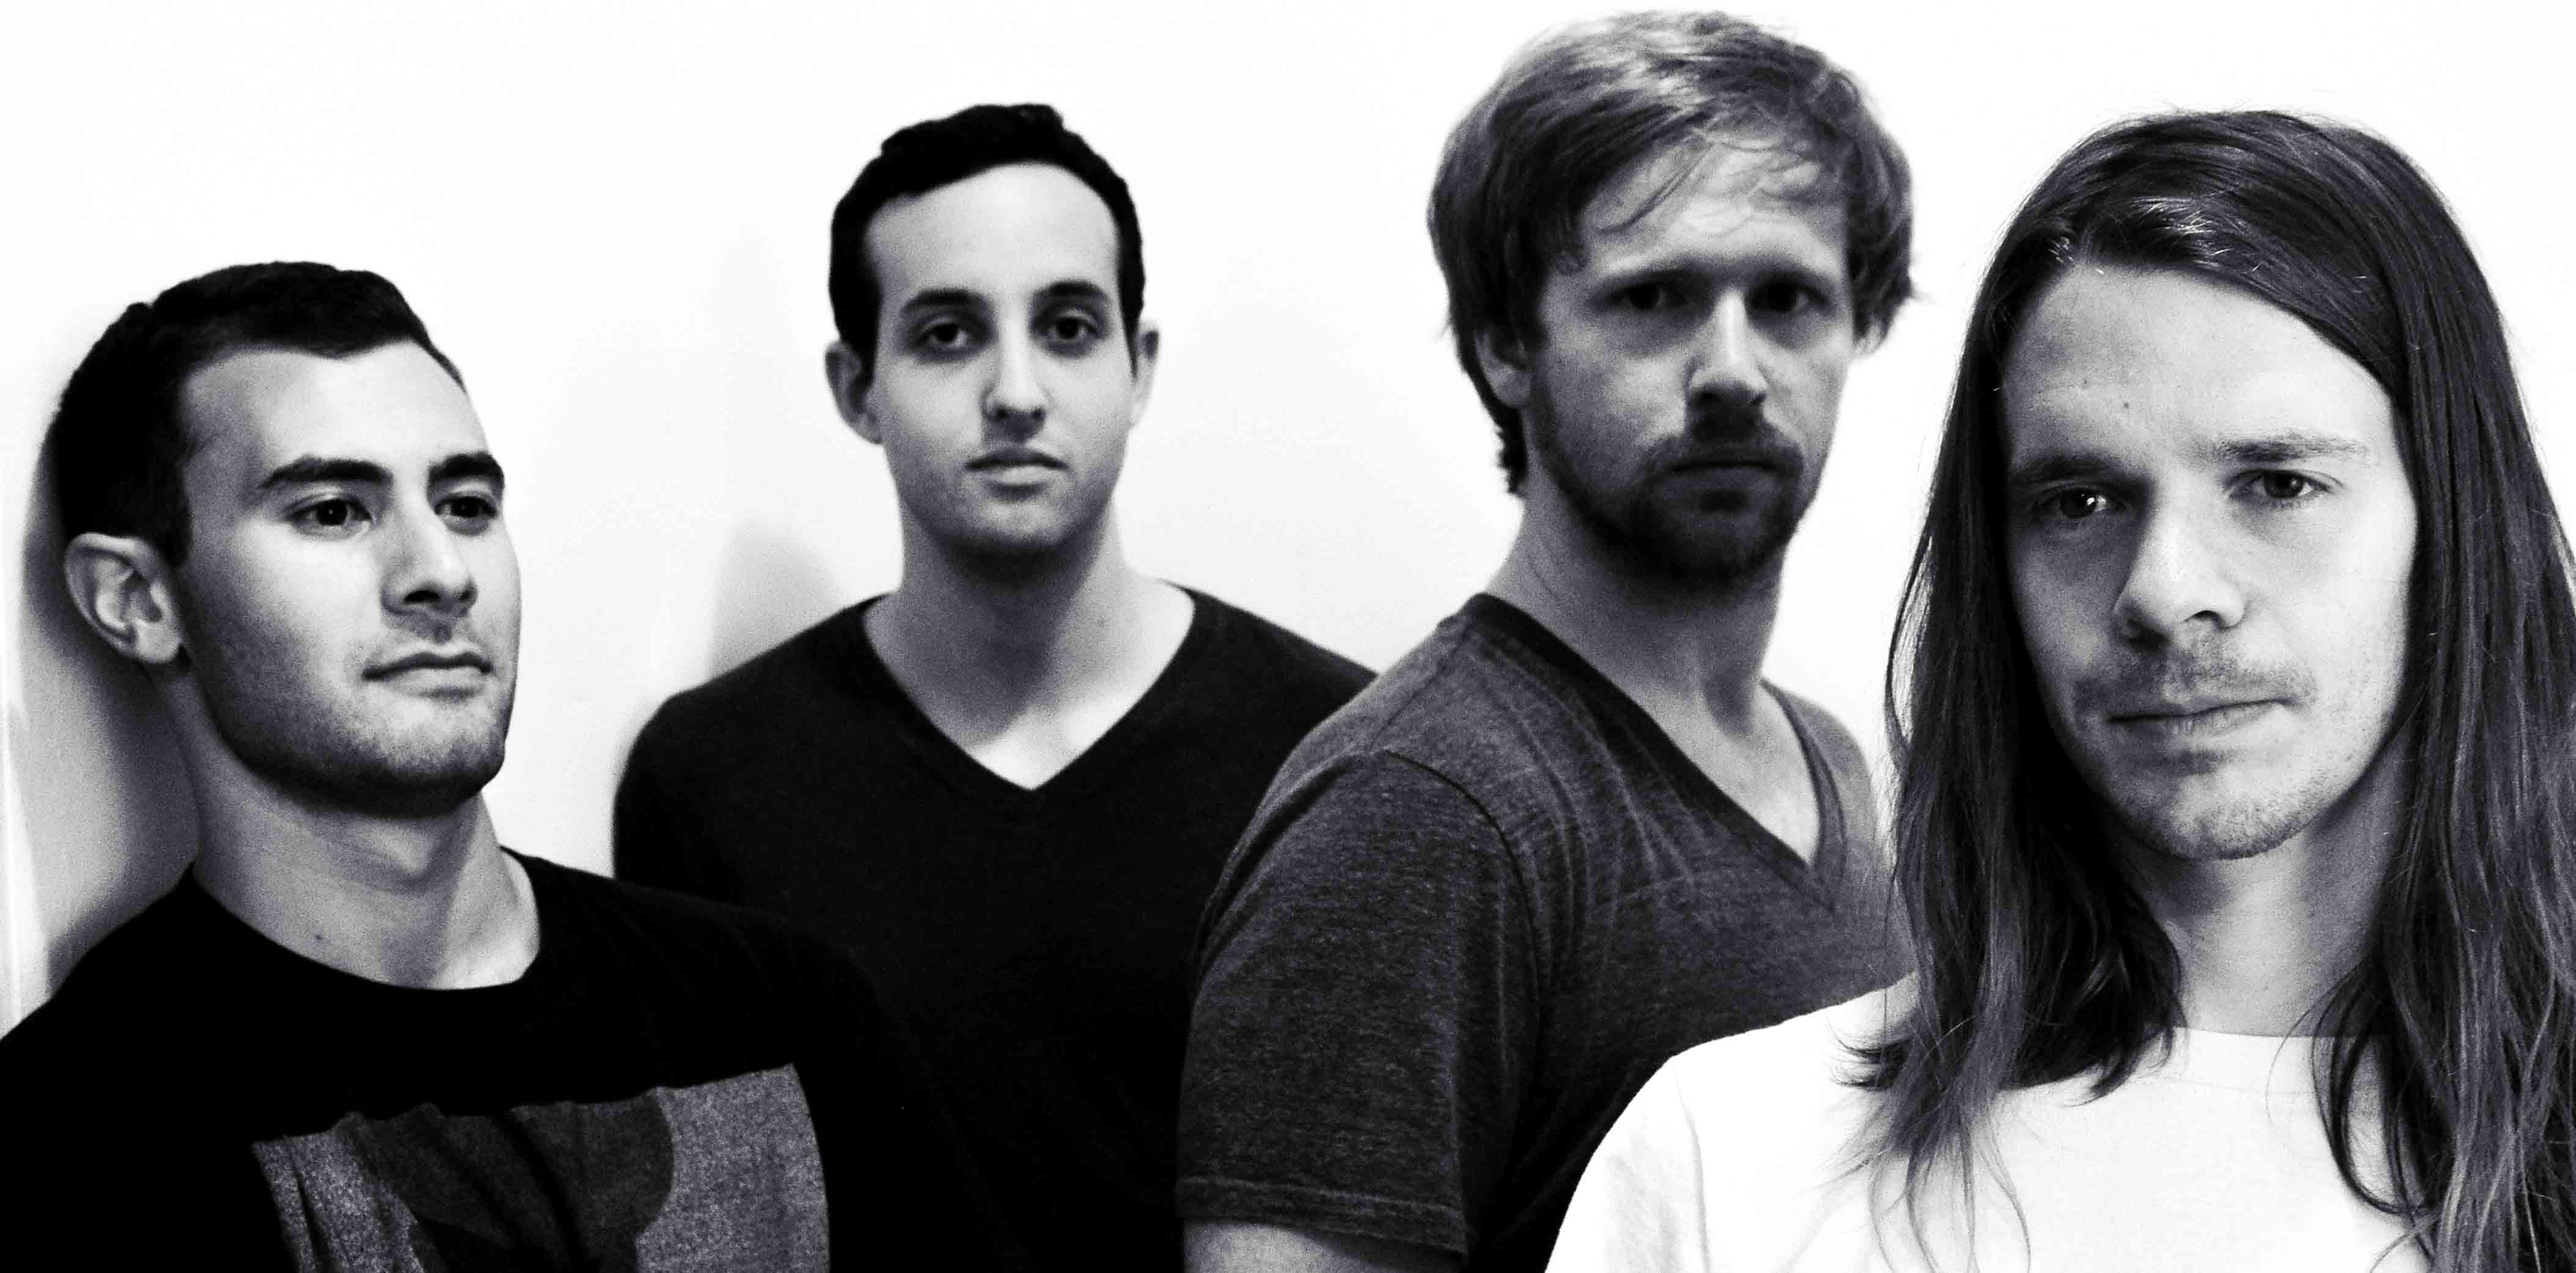
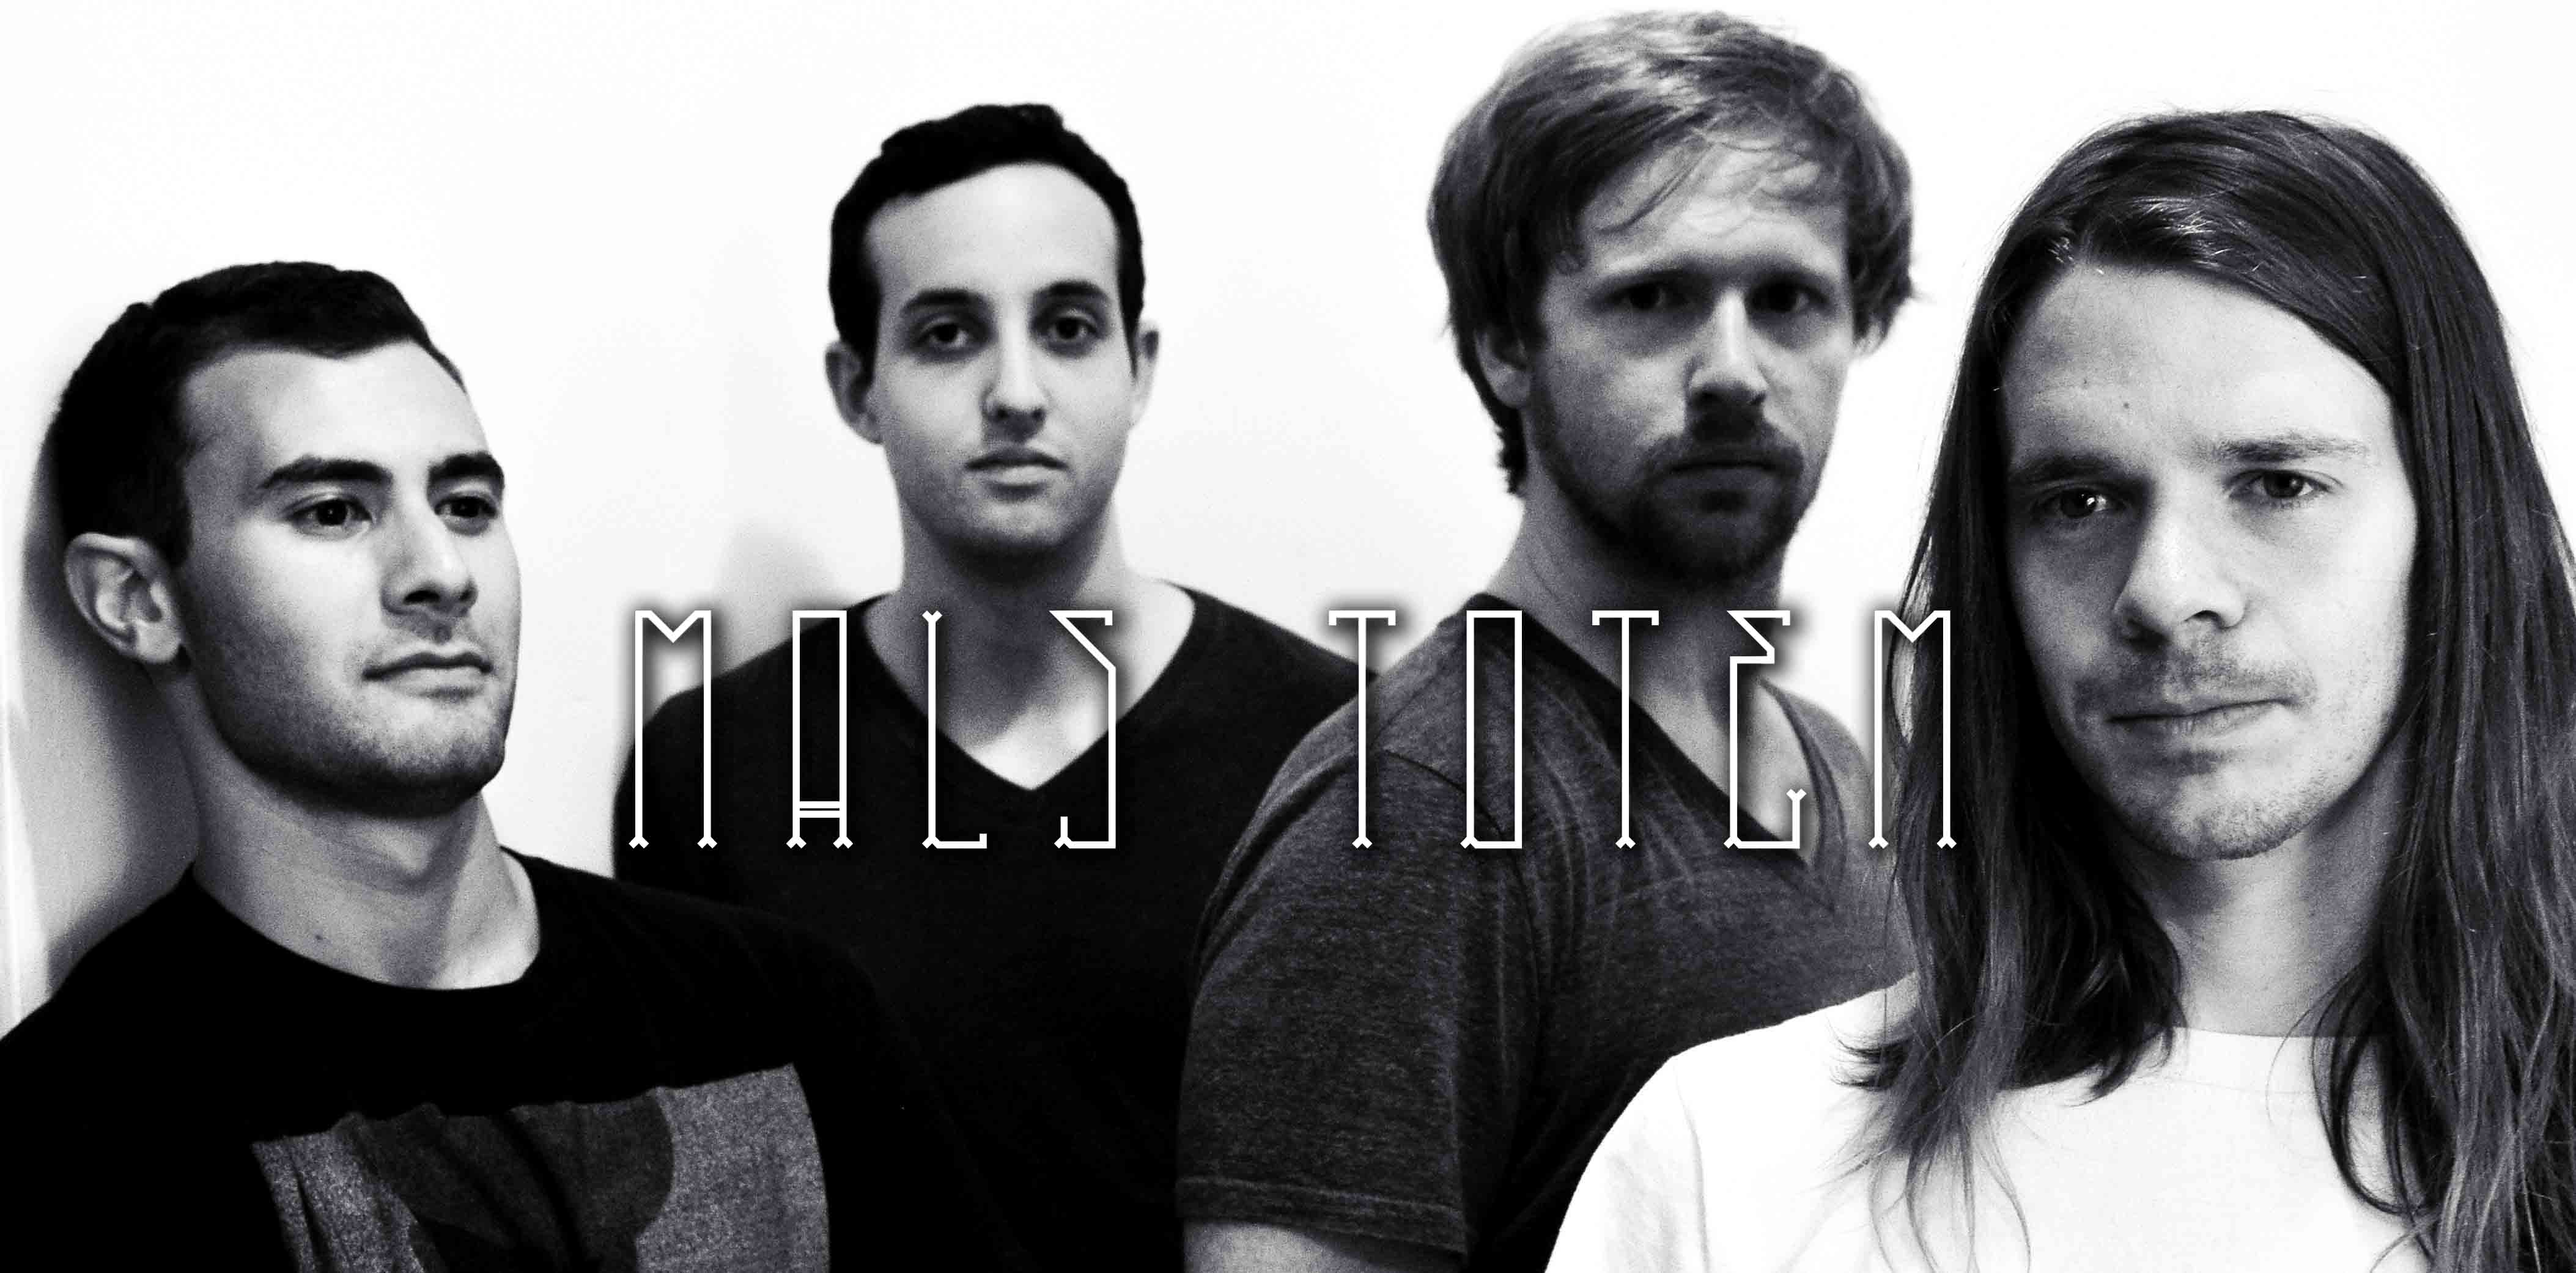
.

diff --git a/index.html b/index.html
@@ -119,7 +119,7 @@
       <ul class="slides">
         <li>
           <div class="hero-unit">
-            <h4>MALS TOTEM</h4>
+            <h4></h4>
           </div>
         </li>
         <!--
@@ -136,7 +136,7 @@
         </li> -->
       </ul>
     </div>
-    <p style="margin-top:-40px" class="text-center hidden-phone"> <a href="#events"><img src="images/arrow-bottom.png" alt="scroll to arrow"></a></p>
+    <!--<p style="margin-top:290px" class="text-center hidden-phone"> <a href="#events"><img src="images/arrow-bottom.png" alt="scroll to arrow"></a></p>-->
   </div>
 </div>
 

diff --git a/css/band.css b/css/band.css
@@ -188,6 +188,12 @@ border: 0;
 	padding-bottom:15px;
 	font-size:40px;
 }
+.hero-unit h4 {
+	font-weight:normal;
+	padding-bottom:15px;
+	font-size:40px;
+	font-family: "fraternal";
+}
 .slide2 {
 	background:none;
 	text-align:center;
@@ -707,8 +713,4 @@ font-size: 42px;
     font-weight: normal;
     font-style: normal;
 
-}
-
-h4 {
-	font-family: "fraternal";
 }
